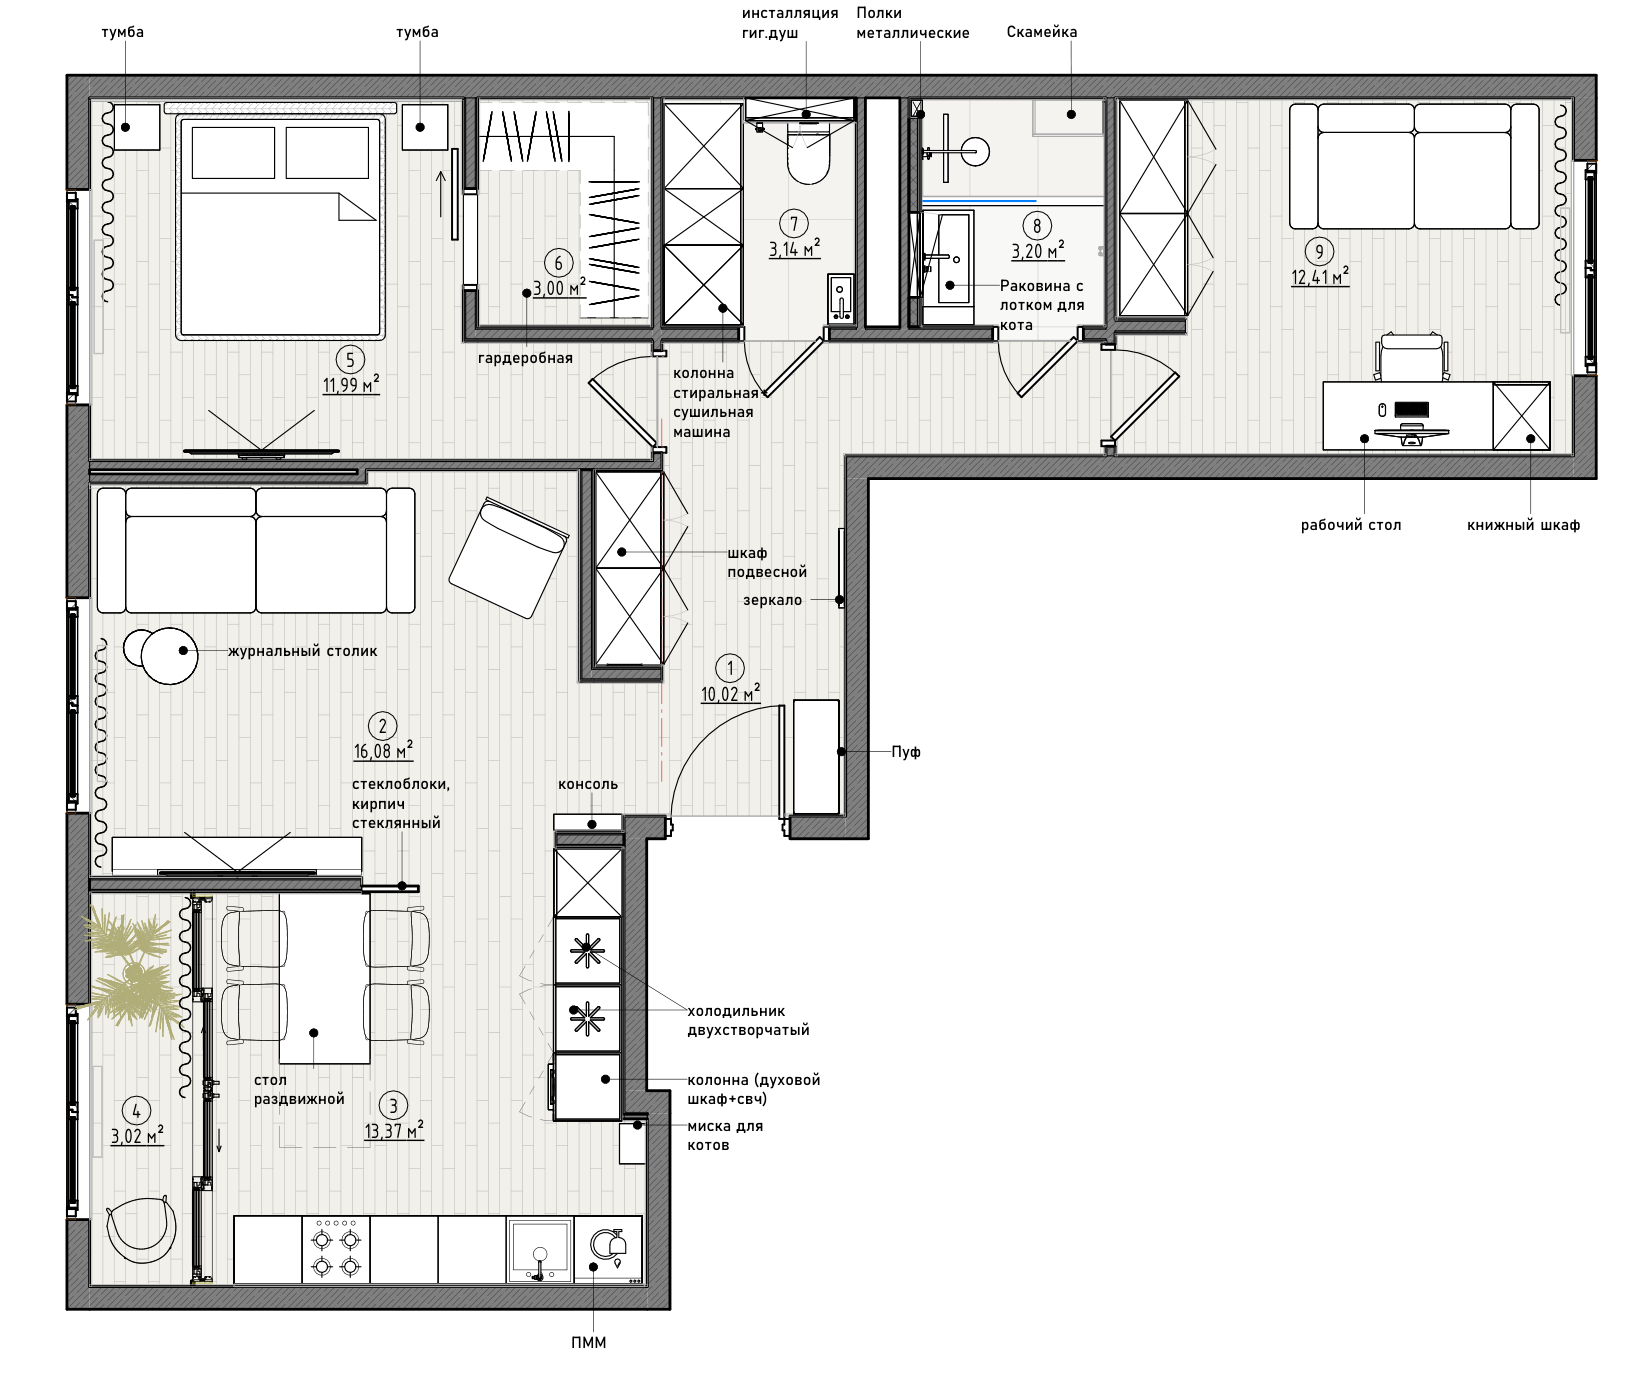
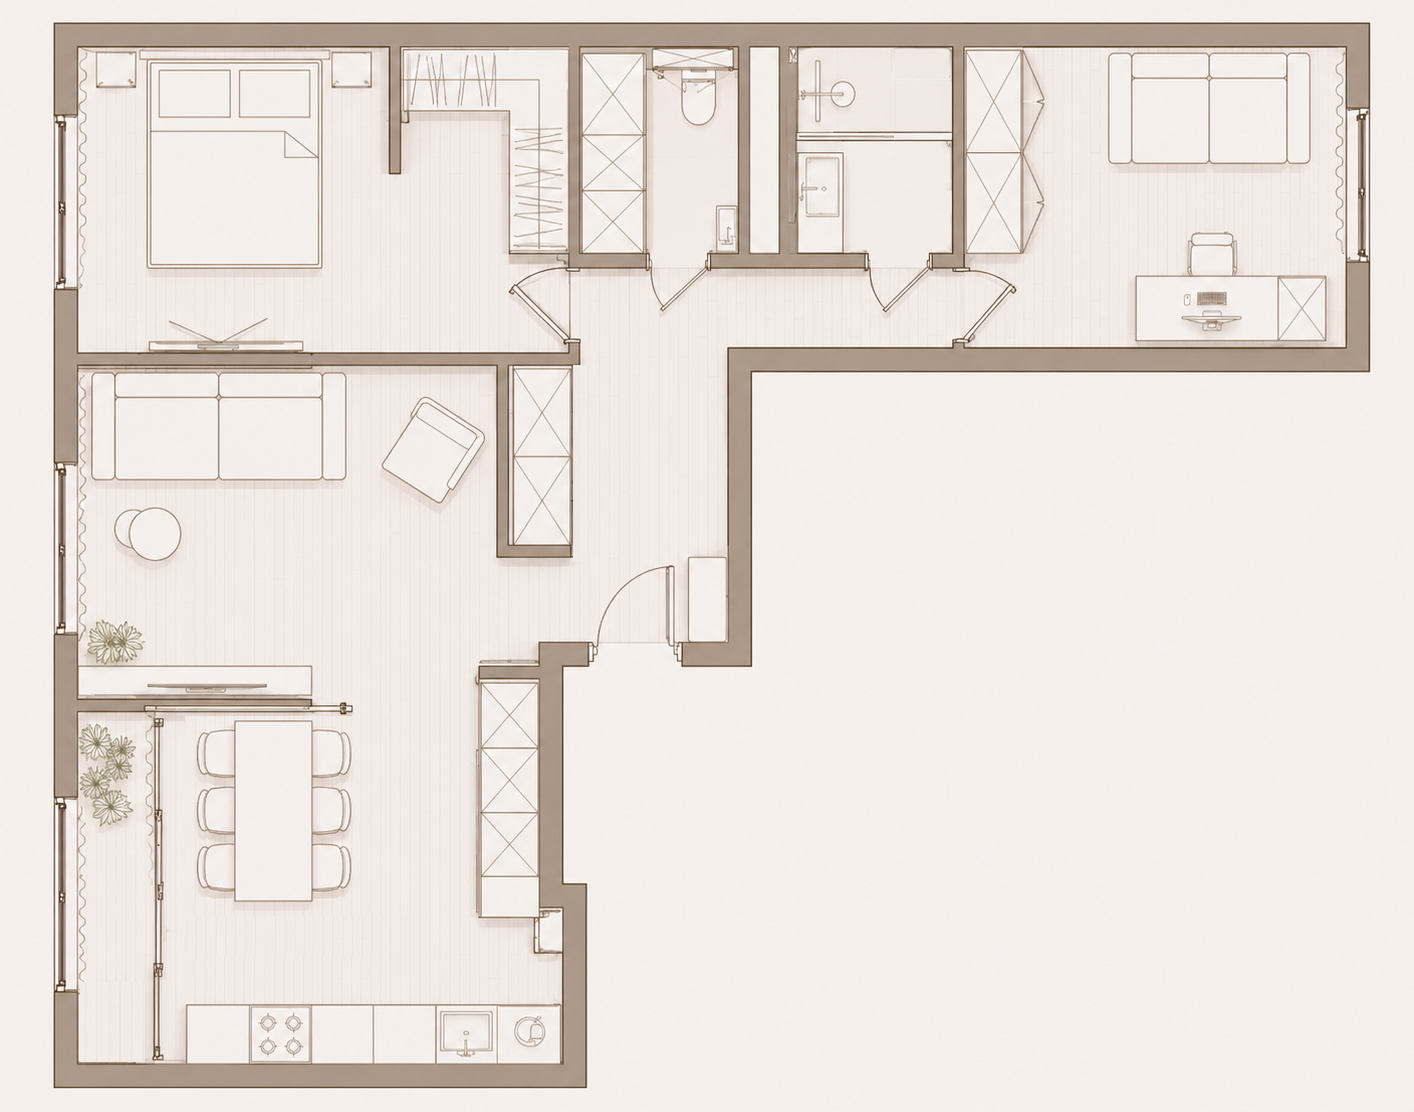
Add project-specific floor plans

Changed region(s): [[0.0311, 0.0, 0.9958, 0.9784]]

diff --git a/scripts/project-data.js b/scripts/project-data.js
@@ -17,6 +17,7 @@ window.PROJECT_DATA = {
     visual: '3D renders',
     cover: 'assets/images/projects/city-park/web/08.jpg',
     fallback: 'assets/images/projects/city-park/web/08.jpg',
+    plan: 'assets/images/projects/city-park/plan.png',
     gallery: selectedProjectImages('city-park', [8, 9, 1, 2, 5, 7, 10]),
   },
   vesna: {
@@ -32,6 +33,7 @@ window.PROJECT_DATA = {
     visual: '3D renders',
     cover: 'assets/images/projects/vesna/cover.jpg',
     fallback: 'assets/images/projects/vesna/cover.jpg',
+    plan: 'assets/images/projects/vesna/plan.png',
     gallery: ['assets/images/projects/vesna/cover.jpg'],
   },
   mushu: {
@@ -47,6 +49,7 @@ window.PROJECT_DATA = {
     visual: '3D renders',
     cover: 'assets/images/projects/mushu/web/01.jpg',
     fallback: 'assets/images/projects/mushu/web/01.jpg',
+    plan: 'assets/images/projects/mushu/plan.png',
     gallery: selectedProjectImages('mushu', [1, 2, 5, 6, 8, 10, 11, 13, 14, 15, 17, 18]),
   },
   smit: {
@@ -62,6 +65,7 @@ window.PROJECT_DATA = {
     visual: '3D renders',
     cover: 'assets/images/projects/smit/web/09.jpg',
     fallback: 'assets/images/projects/smit/web/09.jpg',
+    plan: 'assets/images/projects/smit/plan.png',
     gallery: selectedProjectImages('smit', [9, 7, 11, 12, 16, 17, 3, 5, 13, 19, 1]),
   },
   'novo-ochakovo': {
@@ -77,6 +81,7 @@ window.PROJECT_DATA = {
     visual: '3D renders',
     cover: 'assets/images/projects/novo-ochakovo/web/04.jpg',
     fallback: 'assets/images/projects/novo-ochakovo/web/04.jpg',
+    plan: 'assets/images/projects/novo-ochakovo/plan.png',
     gallery: selectedProjectImages('novo-ochakovo', [4, 5, 7, 8, 9, 11, 13, 14, 15, 1]),
   },
   'georg-landrin': {
@@ -92,6 +97,7 @@ window.PROJECT_DATA = {
     visual: '3D renders',
     cover: 'assets/images/projects/georg-landrin/web/05.jpg',
     fallback: 'assets/images/projects/georg-landrin/web/05.jpg',
+    plan: 'assets/images/projects/georg-landrin/plan.png',
     gallery: selectedProjectImages('georg-landrin', [5, 6, 1, 3, 4, 7]),
   },
   'dom-daryino': {
@@ -102,11 +108,12 @@ window.PROJECT_DATA = {
     category: 'House',
     area: '—',
     rooms: '—',
-    team: 'Евгения Лудупова',
+    team: 'Кожушаный Борис',
     docs: 'Планировочное решение, рабочие чертежи, спецификации',
     visual: '3D renders',
     cover: 'assets/images/projects/dom-daryino/web/02.jpg',
     fallback: 'assets/images/projects/dom-daryino/web/02.jpg',
+    showPlan: false,
     gallery: selectedProjectImages('dom-daryino', [2, 1, 4, 5, 6, 7]),
   },
   talisman: {
@@ -139,6 +146,7 @@ window.PROJECT_DATA = {
     visual: 'Фотографии реализации',
     cover: 'assets/images/projects/300-barista/web/01.jpg',
     fallback: 'assets/images/projects/300-barista/web/01.jpg',
+    plan: 'assets/images/projects/300-barista/plan.png',
     gallery: selectedProjectImages('300-barista', [1, 2, 3]),
   },
 };

diff --git a/scripts/main.js b/scripts/main.js
@@ -4,6 +4,8 @@
 
 const pageLoader = document.querySelector('.page-loader');
 const clamp = (value, min, max) => Math.min(Math.max(value, min), max);
+const isMobileDevice = navigator.userAgentData?.mobile
+  ?? /Android|iPhone|iPad|iPod|Mobile/i.test(navigator.userAgent);
 
 /* Повторно позиционируем страницу по якорю после загрузки изображений.
    Это предотвращает смещение #contacts к предыдущей секции. */
@@ -136,6 +138,7 @@ const renderProjectPage = () => {
   const planSection = document.querySelector('.project-plan');
   if (planSection && project.showPlan === false) {
     planSection.hidden = true;
+    document.querySelector('.project-subnav a[href="#plans"]')?.remove();
   }
 
   if (planDrawing && project.plan) {
@@ -489,7 +492,7 @@ if (contactForm) {
       body,
     });
     const status = contactForm.querySelector('.contact-form__status');
-    const isMobileMail = window.matchMedia('(max-width: 767px)').matches;
+    const isMobileMail = isMobileDevice;
 
     if (isMobileMail) {
       const mailParams = new URLSearchParams({
@@ -531,10 +534,13 @@ updateBackToTop();
 const quickContact = document.createElement('div');
 quickContact.className = 'quick-contact';
 const contactsHref = document.body.classList.contains('project-page') ? 'index.html#contacts' : '#contacts';
+const emailSubject = encodeURIComponent('Новый проект');
+const mobileEmailHref = `mailto:degre.design@yahoo.com?subject=${emailSubject}`;
+const desktopEmailHref = `https://mail.google.com/mail/?view=cm&fs=1&to=degre.design%40yahoo.com&su=${emailSubject}`;
 quickContact.innerHTML = `
   <div class="quick-contact__menu" id="quick-contact-menu">
     <a href="https://t.me/zhenijoy" target="_blank" rel="noopener noreferrer">Telegram</a>
-    <a href="mailto:degre.design@yahoo.com?subject=%D0%9D%D0%BE%D0%B2%D1%8B%D0%B9%20%D0%BF%D1%80%D0%BE%D0%B5%D0%BA%D1%82">E-mail</a>
+    <a href="${isMobileDevice ? mobileEmailHref : desktopEmailHref}" ${isMobileDevice ? '' : 'target="_blank" rel="noopener noreferrer"'}>E-mail</a>
     <a href="${contactsHref}">Контакты</a>
   </div>
   <button class="quick-contact__toggle" type="button" aria-expanded="false" aria-controls="quick-contact-menu">

diff --git a/index.html b/index.html
@@ -7,7 +7,7 @@
   <title>Degre Design — Студия дизайна интерьера</title>
   <meta name="description" content="Degre Design — студия дизайна интерьера Евгении Лудуповой. Дизайн-проекты квартир, домов и коммерческих пространств.">
   <link rel="icon" href="favicon.svg" type="image/svg+xml">
-  <link rel="stylesheet" href="styles/main.css?v=20260803-legal-compliance">
+  <link rel="stylesheet" href="styles/main.css?v=20260803-email-device-fix">
 </head>
 <body>
   <div class="page-loader" aria-hidden="true">
@@ -347,6 +347,6 @@
   </footer>
 
   <script src="scripts/project-data.js?v=20260802-300-barista-default-plan"></script>
-  <script src="scripts/main.js?v=20260803-legal-compliance"></script>
+  <script src="scripts/main.js?v=20260803-email-device-fix"></script>
 </body>
 </html>

diff --git a/project.html b/project.html
@@ -7,7 +7,7 @@
   <title>Degre Design — ЖК City Park</title>
   <meta name="description" content="Страница проекта Degre Design с параметрами, планировкой и галереей интерьера.">
   <link rel="icon" href="favicon.svg" type="image/svg+xml">
-  <link rel="stylesheet" href="styles/main.css?v=20260803-legal-compliance">
+  <link rel="stylesheet" href="styles/main.css?v=20260803-email-device-fix">
 </head>
 <body class="project-page">
   <nav class="nav project-nav">
@@ -143,7 +143,7 @@
     </span>
   </div>
 
-  <script src="scripts/project-data.js?v=20260802-300-barista-default-plan"></script>
-  <script src="scripts/main.js?v=20260803-legal-compliance"></script>
+  <script src="scripts/project-data.js?v=20260808-project-plans-2"></script>
+  <script src="scripts/main.js?v=20260803-email-device-fix"></script>
 </body>
 </html>

diff --git a/consent.html b/consent.html
@@ -7,7 +7,7 @@
   <title>Degre Design — Согласие на обработку персональных данных</title>
   <meta name="description" content="Согласие на обработку персональных данных для обращения в студию Degre Design.">
   <link rel="icon" href="favicon.svg" type="image/svg+xml">
-  <link rel="stylesheet" href="styles/main.css?v=20260803-legal-compliance">
+  <link rel="stylesheet" href="styles/main.css?v=20260803-email-device-fix">
 </head>
 <body class="legal-page">
   <nav class="nav project-nav">
@@ -111,6 +111,6 @@
     </span>
   </div>
 
-  <script src="scripts/main.js?v=20260803-legal-compliance"></script>
+  <script src="scripts/main.js?v=20260803-email-device-fix"></script>
 </body>
 </html>

diff --git a/privacy.html b/privacy.html
@@ -7,7 +7,7 @@
   <title>Degre Design — Политика обработки персональных данных</title>
   <meta name="description" content="Политика в отношении обработки персональных данных на сайте студии Degre Design.">
   <link rel="icon" href="favicon.svg" type="image/svg+xml">
-  <link rel="stylesheet" href="styles/main.css?v=20260803-legal-compliance">
+  <link rel="stylesheet" href="styles/main.css?v=20260803-email-device-fix">
 </head>
 <body class="legal-page">
   <nav class="nav project-nav">
@@ -190,6 +190,6 @@
     </span>
   </div>
 
-  <script src="scripts/main.js?v=20260803-legal-compliance"></script>
+  <script src="scripts/main.js?v=20260803-email-device-fix"></script>
 </body>
 </html>
